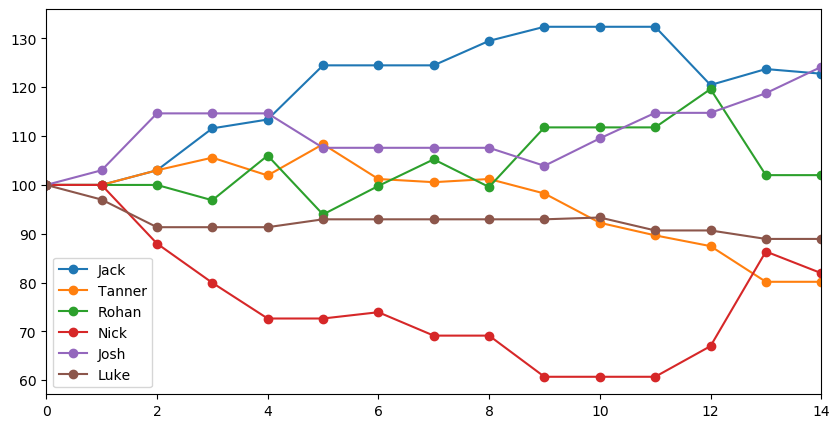
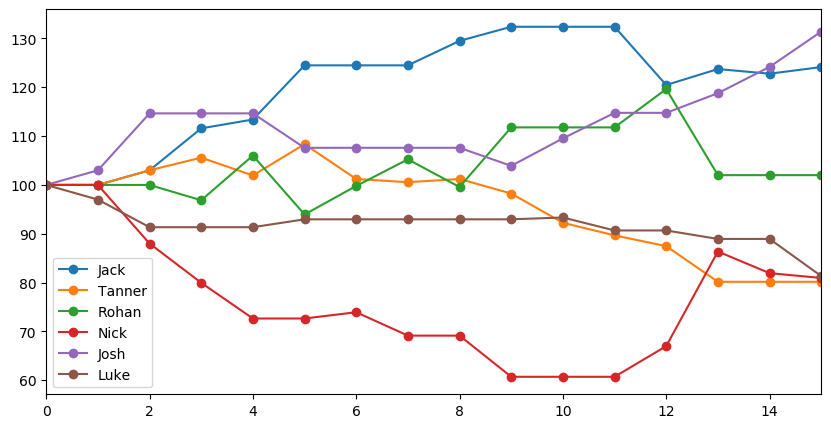
march 12 update

diff --git a/index.html b/index.html
@@ -42,17 +42,17 @@
   <tr class="w3-white">
     <td>1</td>
     <td>Josh</td>
-    <td>124.2</td>
-    <td>16-6-2</td>
-    <td>0.708</td>
+    <td>131.4</td>
+    <td>19-6-2</td>
+    <td>0.741</td>
   </tr>
 
   <tr class="w3-white">
     <td>2</td>
     <td>Jack</td>
-    <td>122.8</td>
-    <td>20-8-2</td>
-    <td>0.7</td>
+    <td>124.1</td>
+    <td>22-9-2</td>
+    <td>0.697</td>
   </tr>
 
   <tr class="w3-white">
@@ -66,17 +66,17 @@
   <tr class="w3-white">
     <td>4</td>
     <td>Luke</td>
-    <td>88.9</td>
-    <td>6-11-1</td>
-    <td>0.361</td>
+    <td>81.3</td>
+    <td>6-14-1</td>
+    <td>0.31</td>
   </tr>
 
   <tr class="w3-white">
     <td>5</td>
     <td>Nick</td>
-    <td>81.9</td>
-    <td>8-20-0</td>
-    <td>0.286</td>
+    <td>80.9</td>
+    <td>9-22-0</td>
+    <td>0.29</td>
   </tr>
 
   <tr class="w3-white">
@@ -109,6 +109,49 @@
   <h2>Recent Rounds<h2>
 </div>
 
+<div class="w3-container">
+<h4>Murdock Park &nbsp (3/12/2021)</h4>
+<table class="w3-table w3-striped w3-bordered">
+<tbody>
+
+<tr class="w3-theme">
+  <th><strong>Player</strong></th>
+  <th><strong>Score</strong></th>
+  <th><strong>Rating Change</strong></th>
+</tr>
+
+
+  <tr class="w3-white">
+    <td>Josh</td>
+    <td>-1</td>
+    <td>+7.2</td>
+  </tr>
+
+  <tr class="w3-white">
+    <td>Jack</td>
+    <td>2</td>
+    <td>+1.4</td>
+  </tr>
+
+  <tr class="w3-white">
+    <td>Nick</td>
+    <td>6</td>
+    <td>-1.0</td>
+  </tr>
+
+  <tr class="w3-white">
+    <td>Luke</td>
+    <td>9</td>
+    <td>-7.6</td>
+  </tr>
+
+
+</tbody>
+</table>
+<p></p>
+</div>
+
+<!-- Recent 2 -->
 <div class="w3-container">
 <h4>Slayter Hill &nbsp (3/9/2021)</h4>
 <table class="w3-table w3-striped w3-bordered">
@@ -145,7 +188,7 @@
 <p></p>
 </div>
 
-<!-- Recent 2 -->
+<!-- Recent 3 -->
 <div class="w3-container">
 <h4>Washout Woods &nbsp (3/8/2021)</h4>
 <table class="w3-table w3-striped w3-bordered">
@@ -200,49 +243,6 @@
 <p></p>
 </div>
 
-<!-- Recent 3 -->
-<div class="w3-container">
-<h4>Murdock Park &nbsp (3/6/2021)</h4>
-<table class="w3-table w3-striped w3-bordered">
-<tbody>
-
-<tr class="w3-theme">
-  <th><strong>Player</strong></th>
-  <th><strong>Score</strong></th>
-  <th><strong>Rating Change</strong></th>
-</tr>
-
-
-  <tr class="w3-white">
-    <td>Rohan</td>
-    <td>0</td>
-    <td>+7.8</td>
-  </tr>
-
-  <tr class="w3-white">
-    <td>Nick</td>
-    <td>2</td>
-    <td>+6.3</td>
-  </tr>
-
-  <tr class="w3-white">
-    <td>Tanner</td>
-    <td>3</td>
-    <td>-2.2</td>
-  </tr>
-
-  <tr class="w3-white">
-    <td>Jack</td>
-    <td>5</td>
-    <td>-11.9</td>
-  </tr>
-
-
-</tbody>
-</table>
-<p></p>
-</div>
-
 
 <!-- RATINGS OVER TIME GRAPH -->
 <div class="w3-container">
@@ -261,7 +261,7 @@
 </div>
 
 <div class="w3-container">
-  <p>Last Update: 03-09-2021</p>
+  <p>Last Update: 03-12-2021</p>
   <p>View All Data:
     <a href="info/all-data.html">Logged Rounds</a>
   </p>

diff --git a/info/all-data.html b/info/all-data.html
@@ -240,6 +240,20 @@
     <td></td>
   </tr>
 
+  <tr class="w3-white">
+    <td>15</td>
+    <td>2021-03-12</td>
+    <td>Murdock Park</td>
+    <td>55</td>
+    <td>Low</td>
+    <td>2</td>
+    <td></td>
+    <td></td>
+    <td>6</td>
+    <td>-1</td>
+    <td>9</td>
+  </tr>
+
 
 </tbody>
 </table>
